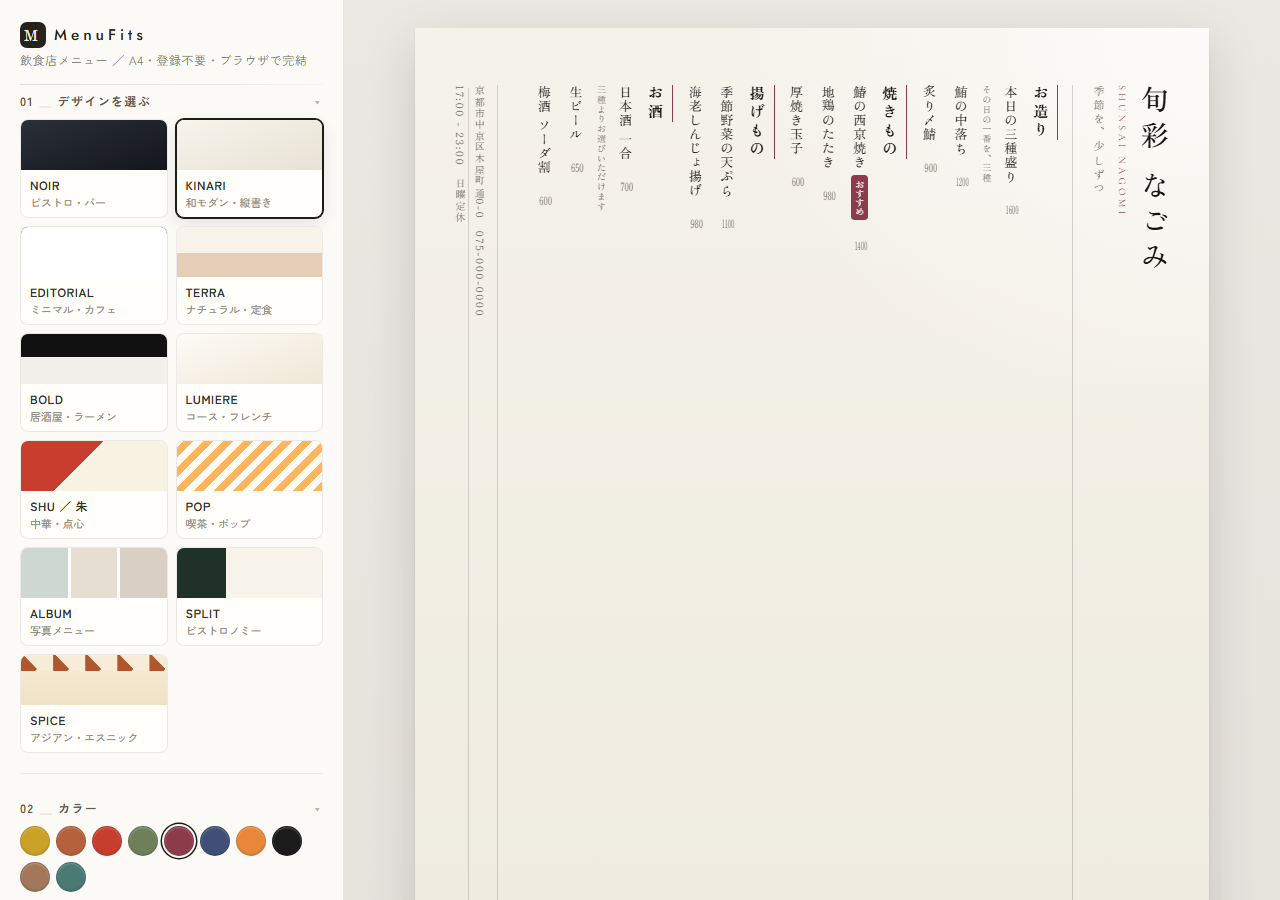
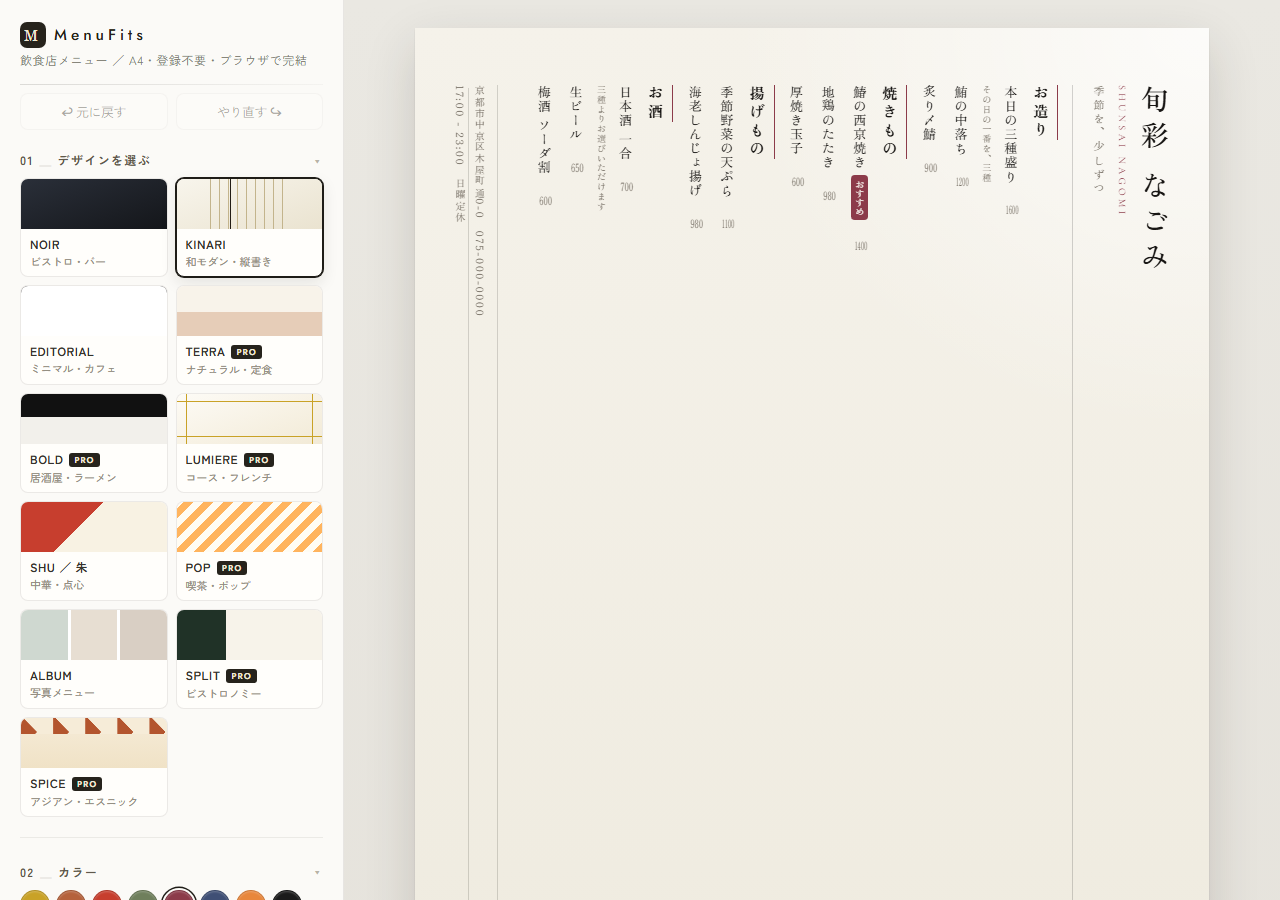
販促素材を現在のUIで撮り直し、SNS投稿用の2サイズを追加する
既存のスクリーンショットは8/21撮影で、有料プラン導入（9/1）より前のUI
だった。デザイン一覧にPROバッジが無いため、そのまま告知に使うと有料の
6デザインが無料で使えるように見えてしまう。全て撮り直した。

- 撮り直し: 02/03/04（編集画面）、05/06（スマホ）
- 追加: 07（料金ページ）、08（テンプレート一覧）
- 追加: sns-x-1200x675 / sns-instagram-1080
  既存OGPと同じ配色・書体。Figmaの「OGP & Icons」ページに元データあり
- 削除: badge-fix-proof-*.png（過去の不具合検証用。サイトには不要）

note記事の対応表にも新しい素材と、8月の画像を使わない旨の注意を足した。

Changed region(s): [[0.0, 0.0933, 0.25, 1.0]]

diff --git a/note-assets/リリースノート記事.md b/note-assets/リリースノート記事.md
@@ -124,7 +124,7 @@ Proでできるようになること：
 
 | 記事内の位置 | ファイル |
 |---|---|
-| 見出し画像 | ogp.png |
+| 見出し画像 | ogp.png（Pro紹介寄りにするなら ogp-pro.png） |
 | 画像①ロゴ | logo-dark.png（濃色背景の場所では logo-white.png） |
 | 画像②LP | 01-lp-hero.png |
 | 動画（GIF） | menufits-demo.gif |
@@ -132,6 +132,20 @@ Proでできるようになること：
 | 画像④カフェ | 02-editor-cafe.png |
 | 画像⑤スマホ | 05-mobile-lp.png / 06-mobile-editor.png |
 | 画像⑥中華 | 04-editor-chuka.png |
+| 料金の節に添えるなら | 07-pro-pricing.png |
+| テンプレ一覧に触れるなら | 08-templates.png |
+
+### SNS投稿用（記事とは別に使う）
+
+| 投稿先 | ファイル | サイズ |
+|---|---|---|
+| X | sns-x-1200x675.png | 1200×675 |
+| Instagram・Facebook | sns-instagram-1080.png | 1080×1080 |
+| どちらでも（動きを見せたいとき） | menufits-demo.gif | 1400×847 |
+
+> 画面のスクリーンショットは2026-09-09に撮り直したもの。Proバッジが入った
+> 現在のUIになっている。**有料プラン導入前（8月）の画像は使わないこと。**
+> 6つのデザインが無料で使えるように見えてしまう。
 
 ---
 
